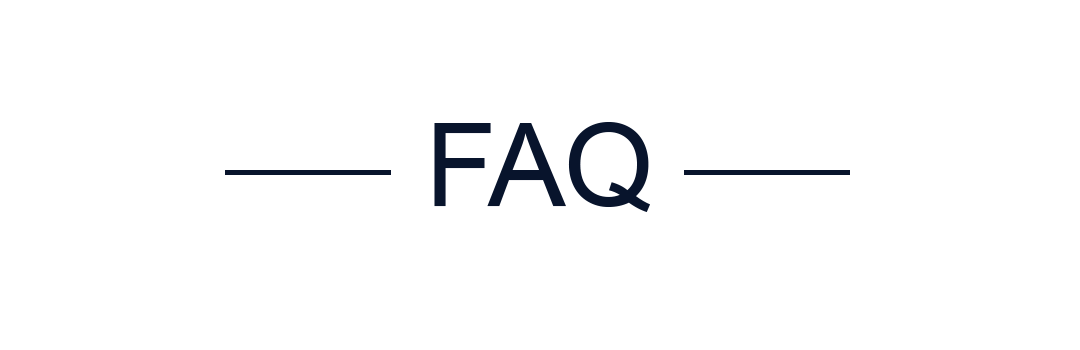
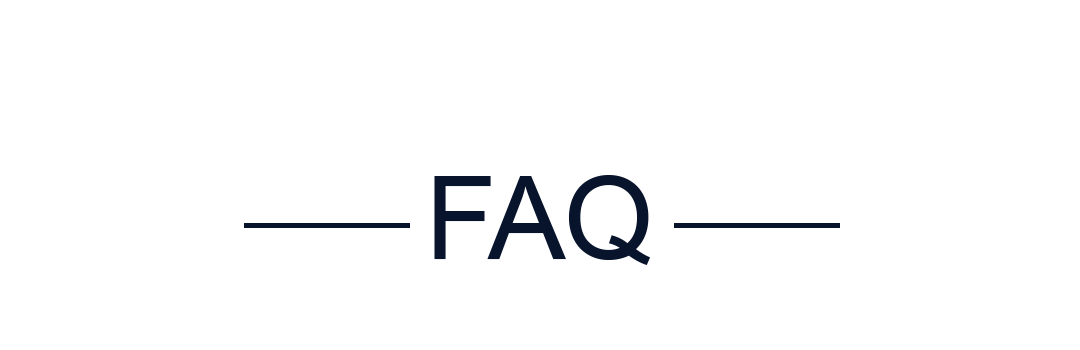
Update FAQ; 11-11-24 Peralta

Changed region(s): [[0.2139, 0.3429, 0.7944, 0.7714], [0.2139, 0.4857, 0.3667, 0.5143]]

diff --git a/faq.html b/faq.html
@@ -29,32 +29,42 @@
 
   </header>
 
-  <div class="image-header">
-    <div class="image-overlay">
-      <div class="welcome">
-        <img src="../SIA_Project/Assets/FAQ2.png" alt="Escape Avenue" class="h4">
-      </div>
-    </div>
-  </div>
 
   <img class="homepage-image" src="../SIA_Project/Assets/FAQ.png" alt="">
 
-  <section>
-    <div class="container">
-      <div class="image"> <img src="../SIA_Project/Assets/ESCAPE-AVE-.png" alt=""> </div>
-      <div class="content">
-        <h2 class="title">
-          Escape Avenue</h2><br>
-        <p class="description">
-          <strong>Escape Avenue</strong> is the perfect place to relax and enjoy. Surrounded by beautiful nature and
-          fresh, strong air, our rest house offers a private pool, fun sports activities such as billiard and pingpong,
-          and delicious dining experiences. <br><br>
-          Enjoy the best mix of adventure and relaxation, where your comfort and happiness are our main focus.
-        </p>
+  <section class="faq-section">
+
+    <div class="faq-category">
+      <h2><i class="fas fa-question"></i> General Questions</h2>
+
+      <div class="faq-item">
+        <button class="faq-question">What is Escape Avenue? <span class="icon">+</span></button>
+        <div class="faq-answer">
+          <p>Escape Avenue is a peaceful retreat designed for relaxation and enjoyment.</p>
+        </div>
       </div>
 
-    </div>
+      <div class="faq-item">
+        <button class="faq-question">Where is Escape Avenue Located? <span class="icon">+</span></button>
+        <div class="faq-answer">
+          <p>Escape Avenue is located in a serene environment, perfect for a getaway.</p>
+        </div>
+      </div>
 
+      <div class="faq-item">
+        <button class="faq-question">Is the resort family-friendly? <span class="icon">+</span></button>
+        <div class="faq-answer">
+          <p>Yes, our resort is family-friendly and offers amenities for all ages.</p>
+        </div>
+      </div>
+
+      <div class="faq-item">
+        <button class="faq-question">How can I contact the resort? <span class="icon">+</span></button>
+        <div class="faq-answer">
+          <p>You can contact us via our contact page or email us directly.</p>
+        </div>
+      </div>
+    </div>
   </section>
 
   <footer class="footer">
@@ -77,7 +87,7 @@
       </div>
     </div>
   </footer>
-
+  <script src="dropdown_vs.js"></script>
 </body>
 
 </html>

diff --git a/style.css b/style.css
@@ -50,6 +50,7 @@ body {
     margin-top: 25px;
 }
 
+
 .image-header {
     width: auto;
     height: 50vh;
@@ -92,7 +93,6 @@ body {
     grid-template-columns: repeat(2, 1fr);
     align-items: center;
     margin-bottom: 250px;
-
 
 }
 
@@ -615,7 +615,9 @@ button {
     border-radius: 5px;
     font-family: Arial, sans-serif;
     background-color: #f9f9f9;
+    
 }
+
 
 .receipt-row {
     display: flex;
@@ -662,3 +664,63 @@ button {
 .cancel-button:hover {
     background-color: #cc0000;
 }
+
+/* */
+
+  .faq-section {
+    max-width: 800px;
+    padding: 40px 20px;
+    min-height: 75vh;
+    margin: auto;
+    align-items: center;
+  }
+  
+  .faq-section h1 {
+    font-size: 32px;
+    text-align: center;
+    color: #0a1e2e;
+  }
+  
+  .faq-section p {
+    text-align: center;
+    font-size: 18px;
+    color: #555;
+    margin-bottom: 30px;
+  }
+  
+  .faq-category h2 {
+    font-size: 24px;
+    color: #333;
+    display: flex;
+    align-items: center;
+    gap: 10px;
+  }
+  
+  .faq-item {
+    border-top: 1px solid #ddd;
+    padding: 15px 0;
+  }
+  
+  .faq-question {
+    background: none;
+    border: none;
+    outline: none;
+    font-size: 18px;
+    color: #0a1e2e;
+    cursor: pointer;
+    display: flex;
+    justify-content: space-between;
+    width: 100%;
+  }
+  
+  .faq-answer {
+    display: none;
+    padding: 10px 0;
+    font-size: 16px;
+    color: #555;
+  }
+  
+  .faq-item.active .faq-answer {
+    display: block;
+  }
+  

diff --git a/dropdown_vs.js b/dropdown_vs.js
@@ -1,0 +1,8 @@
+document.querySelectorAll('.faq-question').forEach(button => {
+    button.addEventListener('click', () => {
+      const faqItem = button.parentElement;
+      faqItem.classList.toggle('active');
+      button.querySelector('.icon').textContent = faqItem.classList.contains('active') ? '-' : '+';
+    });
+  });
+  
